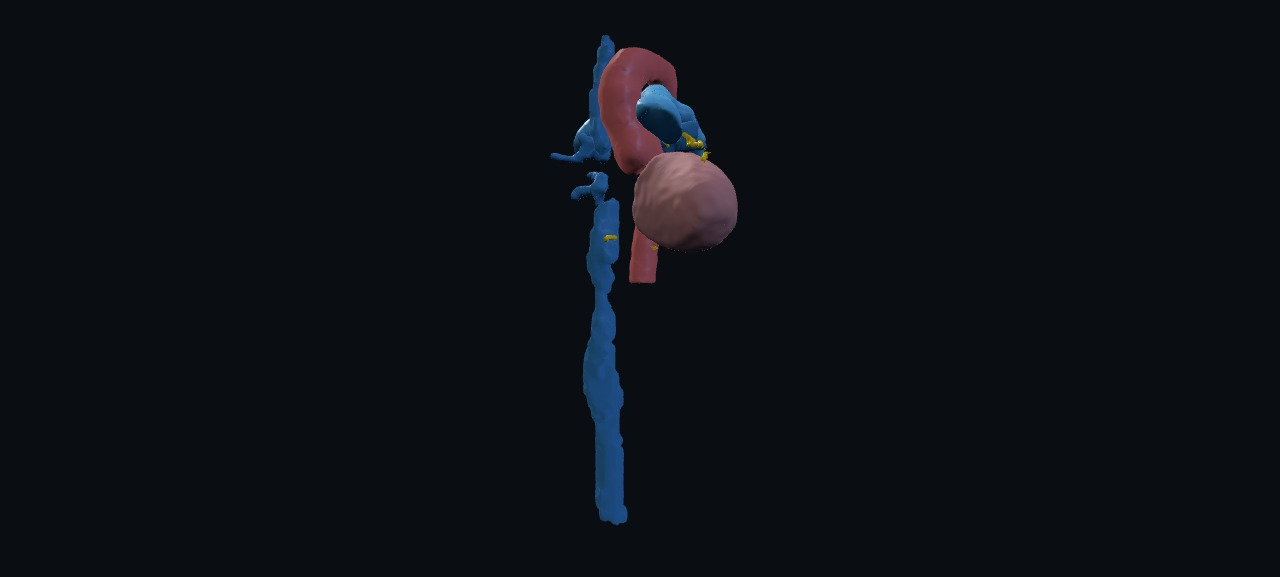
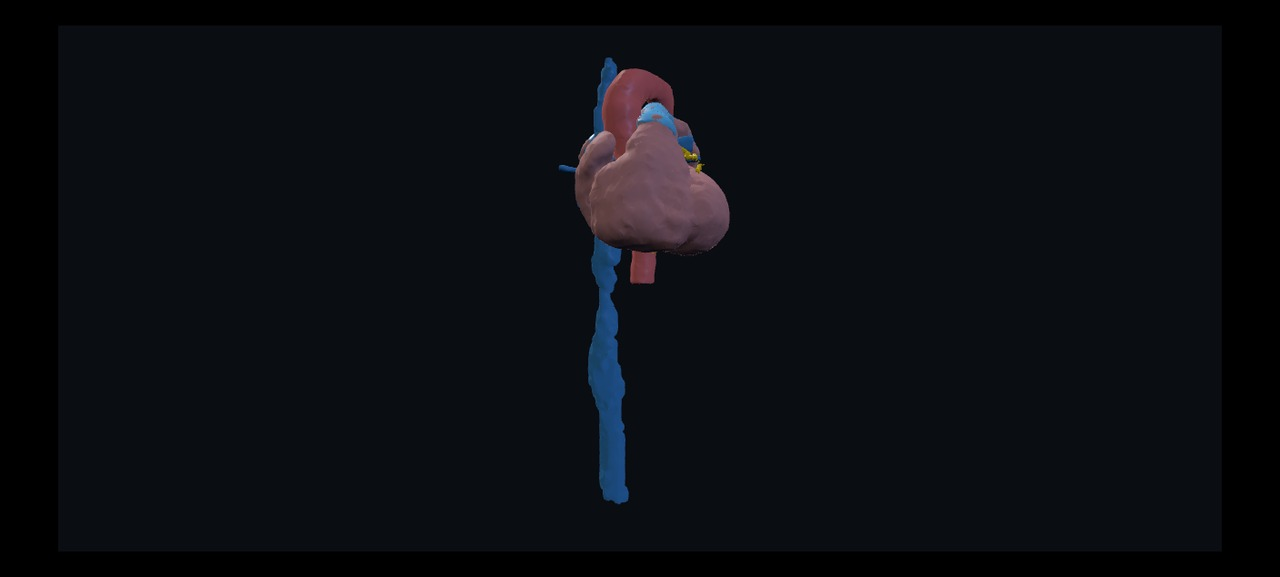
Retain whole-heart envelope as outer anchor; retighten hero renders

Changed region(s): [[0.4375, 0.0624, 0.5938, 0.9047]]

diff --git a/pipeline/build_cardiac_glb.py b/pipeline/build_cardiac_glb.py
@@ -19,8 +19,9 @@ everything. --stl-dir is an explicit file set and is never filtered.
 Multi-source precedence: when one canonical id appears in several source dirs,
 heartchambers_highres output dirs (and chambers/ subdirs) rank above veins/,
 which rank above coronaries/, which rank above every other mask dir; each
-loser becomes a skipped row. `heart` is suppressed (skip reason
-'superseded_by_myocardium') whenever `heart_myocardium` is present.
+loser becomes a skipped row. `heart` (whole-heart muscular envelope) is kept
+even when `heart_myocardium` (LV wall) is present: the envelope is the visible
+outer anchor, the wall the high-res inner shell.
 
 Per-structure chain (contract order):
   1. ingest        STL: pv.read -> clean() + triangulate() (watertight via
@@ -318,9 +319,8 @@ def _collect_specs(args, label_map, volumes) -> list[dict]:
     plus one sub-level for case roots), or a single --multilabel volume. When
     one canonical id appears more than once the highest-precedence source wins
     (heartchambers_highres/chambers > veins > coronaries > other; ties break
-    first-seen) and each loser becomes a skipped row. `heart` is suppressed
-    with skip reason 'superseded_by_myocardium' whenever `heart_myocardium` is
-    present.
+    first-seen) and each loser becomes a skipped row. `heart` is kept alongside
+    `heart_myocardium` (envelope vs LV wall; both share the myocardium group).
     """
     specs: list[dict] = []
     if args.stl_dir:
@@ -402,13 +402,6 @@ def _collect_specs(args, label_map, volumes) -> list[dict]:
             f'duplicate structure name (superseded by {winner["source_file"]})'
         )
 
-    # the whole-heart envelope never coexists with LV myocardium
-    if any(
-        'skipped' not in spec and spec['name'] == 'heart_myocardium' for spec in specs
-    ):
-        for spec in specs:
-            if spec['name'] == 'heart':
-                spec['skipped'] = 'superseded_by_myocardium'
     return specs
 
 

diff --git a/README.md b/README.md
@@ -90,7 +90,8 @@ One-time setup: the key lands machine-wide in `~/.totalsegmentator/config.json`,
 python tools/run_heartchambers.py s0011
 
 # Build the GLB: heartchambers_highres output wins over coarser masks for shared
-# ids; the `heart` envelope is suppressed when heart_myocardium is present.
+# ids; the whole-heart `heart` envelope is kept as the visible outer anchor
+# alongside `heart_myocardium` (LV wall inner shell).
 python pipeline/build_cardiac_glb.py \
     --ts-dir data/segmentations/s0011 data/raw/totalseg_ct/s0011/segmentations \
     --out viewer/public/assets/cardiac.glb --report out/report_s0011.json
